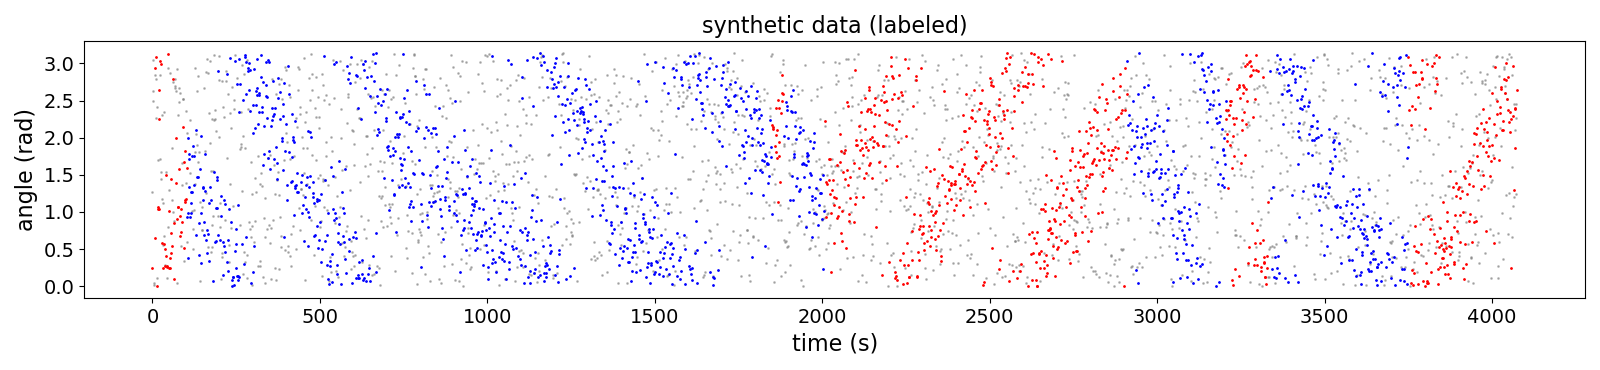
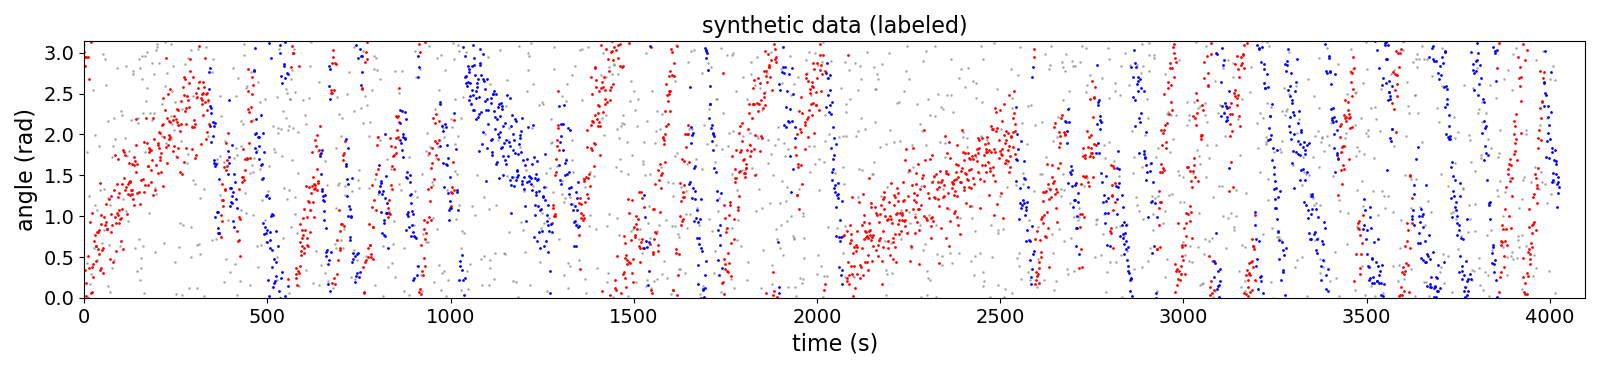
updated example
- updated demo.py
- added experimental example

diff --git a/demo.py b/demo.py
@@ -12,17 +12,19 @@ import matplotlib.pyplot as plt
 
 from tensorflow.keras.models import load_model
 
-from analysis import evaluate_window, find_sections
-from training import gen_training_data
+from analysis import evaluate_window, find_sections, get_radon, radon_fit_ellipses
+from training import gen_training_data, slope
+
+### synthetic data example
 
 # parameters for synthetic data
 N = 4096
-m0 = 2*np.pi/3600*12
+m0 = slope()
 dm = 0.75
 s0 = np.pi/2
 ds = 0.75
 R = 0.1
-O = 0.2
+O = 0.33
 
 # generate synthetic data
 training_data_params = {'N':N, 'm0':m0, 'dm':dm, 's0':s0, 'ds':ds, 'R':R, 'O':O}
@@ -87,6 +89,49 @@ plt.xticks(fontsize=14)
 plt.yticks(fontsize=14)
 plt.tight_layout()
 
+
+### real data example
+
+Path = './radon_samples'
+
+radon = get_radon(Path)
+_, _, Y, _ = radon_fit_ellipses(radon)
+
+X = np.arange(len(Y))
+
+L = evaluate_window(model, Y, 4096)
+sections = find_sections(X, Y, L)
+
+plt.figure(figsize=plt.figaspect(.75/(2*1.618)))
+plt.scatter(X[L==0], Y[L==0], s=1, c='gray', alpha = 0.5)
+plt.scatter(X[L==1], Y[L==1], s=1, c='r')
+plt.scatter(X[L==2], Y[L==2], s=1, c='b')
+plt.xlabel('time (s)', fontsize=16)
+plt.ylabel('angle (rad)', fontsize=16)
+plt.title('synthetic data (labels recovered)', fontsize=16)
+plt.xticks(fontsize=14)
+plt.yticks(fontsize=14)
+plt.tight_layout()
+
+plt.figure(figsize=plt.figaspect(.75/(2*1.618)))
+plt.scatter(X[L==0], Y[L==0], s=1, c='gray', alpha = 0.5)
+plt.scatter(X[L==1], Y[L==1], s=1, c='r')
+plt.scatter(X[L==2], Y[L==2], s=1, c='b')
+
+for i, section in sections.items():
+    plt.plot(section['xf'], section['yf'], 'k--')
+
+plt.xlabel('time (s)', fontsize=16)
+plt.ylabel('angle (rad)', fontsize=16)
+plt.title('synthetic data (with fits)', fontsize=16)
+plt.xticks(fontsize=14)
+plt.yticks(fontsize=14)
+plt.tight_layout()
+
+m = np.abs([sections[ind]['m'] for ind in sections]) * 3600 / 12 * 180 / np.pi
+slen = np.asarray([sections[ind]['nI'] for ind in sections])
+
+np.sum(m*slen)/np.sum(slen)
 
 # Path = 'E:/Seadrive/Adrian F/Meine Bibliotheken/Phasenwellen-Projekt/codes_unsorted/rotation_analysis/SlopeData'
 # DataSets = [Set for Set in os.listdir(Path) if '.pkl' in Set]

diff --git a/training.py b/training.py
@@ -193,6 +193,8 @@ def gen_training_data(N, m0, dm, s0, ds, R, O):
     
     y, x, r = [0], [0], [0]
 
+    m0 = m0() if callable(m0) else m0
+
     while len(x) < N:
 
         m = m0*np.random.choice([-1, 1]) + dm*m0*np.random.normal(0, 0.5)
@@ -265,6 +267,7 @@ def data_gen(training_data_params, batch_size):
         
         yield (np.float16(np.asarray(Y)), np.float16(np.asarray(R)))
         
+        
 def train(training_data_params, batch_size, epochs, steps_per_epoch):
     """
     Function for training. Validation accuracy is limited, as random noise
@@ -298,6 +301,24 @@ def train(training_data_params, batch_size, epochs, steps_per_epoch):
     
     return model
 
+
+def slope():
+    """
+    Function to randomize center slope from the interval [m0/2, m0*2].
+    Can be passed to the training data generation function to generate
+    a different center slope for each data set.
+
+    Returns
+    -------
+    m0 : float
+        obtained from the interval [m0/2, m0*2] with uniform probability
+
+    """
+    
+    m0 = 2*np.pi/3600*12
+    return 2 * m0 * np.random.rand()
+
+
 if __name__ == '__main__':
         
     import os
@@ -307,10 +328,10 @@ if __name__ == '__main__':
     size = 4096
     batch_size = 4
     epochs = 50
-    steps_per_epoch = 200
+    steps_per_epoch = 250
 
     N = size
-    m0 = 2*np.pi/3600*12
+    m0 = slope#2*np.pi/3600*12
     dm = 0.75
     s0 = np.pi/2
     ds = 0.75

diff --git a/analysis.py b/analysis.py
@@ -132,7 +132,7 @@ def find_sections(X, Y, L):
 
     m = np.abs(dY/dX)
     m[np.isinf(m)] = np.pi
-    mT = threshold_otsu(m) * 0.9
+    mT = threshold_otsu(m)
     
     sep = np.unique([0] + [len(X)-1] + list(np.where(m>mT)[0]) + list(np.where(dL != 0)[0]))
     

diff --git a/README.md b/README.md
@@ -12,9 +12,10 @@ series of an evolving angle, recovering as much information as possible, the bar
 being the speed of rotation.
 However, simple approaches failed, as i. the data was extremely noisy, making numeric
 differentiation impossible, and ii. because the rotation would change direction after random 
-intervals, making it difficult to define regions for fitting.
+intervals, making it difficult to define regions for fitting. An example of unlabeled experimental
+data is shown below:
 
---- Picture of experimental data coming soon ---
+![](https://github.com/adrianfessel/RotationAnalysis/blob/main/experimental.png?raw=true)
 
 While other approaches such as simulated annealing with a polygon appear feasible,
 experimentation with a neural network for semantic segmantation turned out expedient.
@@ -70,3 +71,8 @@ noise (RANSAC regression), it is possible to fit the sections with acceptable qu
 The slope (rotation speed) recovered by the method matches the slope used for generation of the example.
 
 ![](https://github.com/adrianfessel/RotationAnalysis/blob/main/text.PNG?raw=true)
+
+The trained network can be used to label the experimental data in the topmost figure. After partitioning
+into sections, the same fitting routine as above can be applied:
+
+![](https://github.com/adrianfessel/RotationAnalysis/blob/main/experimental_labeled_fits.png?raw=true)
